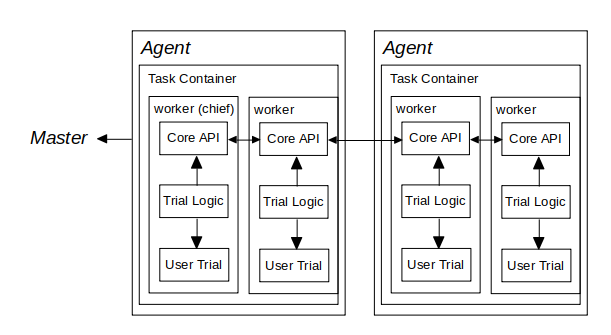
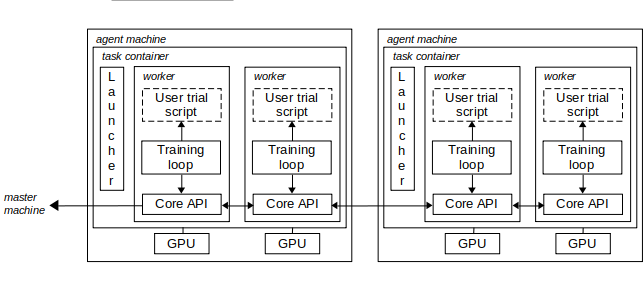
docs: update architecture doc with images

Changed region(s): [[0.0, 0.0619, 1.0, 0.9588], [0.1866, 0.0, 0.3421, 0.0309]]

diff --git a/docs/intro/architecture/overview.rst b/docs/intro/architecture/overview.rst
@@ -4,21 +4,17 @@
  System Architecture
 #####################
 
-The Determined architecture comprises a single *master* and one or more *agents*. A single machine can serve as both a master and an agent.
+**********
+Components
+**********
 
-A cluster is managed by a master node, which provisions and deprovisions agent nodes, depending on the current volume of experiments running on the cluster. When an experiment starts, the master creates agent instances and when the experiment completes, the master turns off the agents. The master also keeps all experiment metadata in a separate database, which can be queried by the user using the WebUI or CLI. All nodes in the cluster communicate internally within the cloud and you interact with the master using a port configured at installation. You do not need to interact with an agent, directly.
-
-The following figure depicts the key functional areas of the system architecture:
+The following figure depicts the main components of the system architecture:
 
 .. image:: /assets/images/arch00.png
 
-TBD: Talk about each of the boxes/connections.
+The Determined architecture comprises a single *master* and one or more *agents*. A single machine can serve as both a master and an agent.
 
-The following sections describe the master and agent components in more detail.
-
-*********
-Resources
-*********
+A cluster is managed by a master node, which provisions and deprovisions agent nodes, depending on the current volume of experiments running on the cluster. When an experiment starts, the master creates agent instances and when the experiment completes, the master turns off the agents. The master also keeps all experiment metadata in a separate database, which can be queried by the user using the WebUI or CLI. All nodes in the cluster communicate internally within the cloud and you interact with the master using a port configured at installation. You do not need to interact with an agent, directly.
 
 Master
 ======
@@ -36,7 +32,25 @@ The master is the central Determined system component with the following respons
 -  Hosts the WebUI for monitoring experiments.
 -  Serves the REST API.
 
-There is typically one agent per compute server. The agent manages a number of *slots*, which are computing devices, typically a GPUs or CPUs.
+Searcher
+^^^^^^^^
+
+TBD
+
+Metrics
+^^^^^^^^
+
+TBD
+
+Checkpoint
+^^^^^^^^^^
+
+TBD
+
+Scheduler
+^^^^^^^^^
+
+TBD
 
 Agent
 =====
@@ -48,9 +62,11 @@ An agent is managed by the master and has no state. Agents communicate only with
 -  Monitors containers and sends container information to the master.
 -  Reports *trial runner* states to the master. The *trial runner* runs a trial in a containerized environment. As such, the trial runner needs access to the training data.
 
+There is typically one agent per compute server. The agent manages a number of *slots*, which are computing devices, typically a GPUs or CPUs.
+
 The volume of active experiments dictates the number of agents.
 
-One agent can run on the master.
+One agent can run on the master machine.
 
 Database
 ========
@@ -103,11 +119,70 @@ Peripheral resources
    -  AWS Identity and Access Management (IAM)
    -  Security Groups
 
+************************
+Policies and Conventions
+************************
+
+TBD
+
+Configuration
+=============
+
+TBD
+
+Incrementalism
+==============
+
+Incremental features for incremental work.
+
+Experiment Variability
+======================
+
+Variabliity is around ML models, not in how to use Determined.
+
+Scheduling
+==========
+
+TBD
+
+Another One
+===========
+
+TBD
+
 *********************
-Master-Agent Workflow
+Workflows
 *********************
 
-The following operations represent a typical, high-level workflow:
+Training Implementation Workflow
+================================
+
+#. build data set
+#. in each example:
+#. build trial class
+#. build config file that tells Det how to run experiment
+
+   -  might change w/ different dataset
+
+#. How do you load your data  build_training_data_loader, build_validation_data_loader
+
+   -  how to pull the data into python
+
+#. How do you perform training  train_batch
+
+   objective: Find best set of parameters to get what you want. Do it repetitively to jiggle parameters
+
+   -  loss = how well we're doing
+   -  .backward & .step_optimizer = jiggling
+
+#. How do you perform validation  evaluate_batch
+
+   -  checks results against new data (cat image)
+
+#. a checkpointing step
+
+Master-Agent Workflow
+=====================
 
 #. Submit an experiment to the master.
 #. The master creates one or more agents, depending on experiment requirements, if the agent does not already exist.
@@ -116,34 +191,82 @@ The following operations represent a typical, high-level workflow:
 #. The master shuts down agents that are no longer needed.
 
 **************************************
-Distributed Training - Deployment View
-**************************************
-TBD
-
-**************************************
-Distributed Training - Logical View
-**************************************
-TBD
-
 Non-distributed Training
-========================
+**************************************
 
 TBD
 
 .. image:: /assets/images/arch01.png
 
-TBD: Talk about each of the boxes/connections.
+The Determined master launches one container, in which `entrypoint` script
+in the experiment configuration is called.
 
+The `entrypoint` script has complete freedom in how it defines and trains the
+model.  The Core API is available to integrate with the rest of the Determined
+platform by reporting metrics and checkpoints, checking for preemption signals,
+and participating in hyperparameter searches.
+
+**************************************
 Distributed Training
-=========================
+**************************************
 
 TBD
 
 .. image:: /assets/images/arch02.png
 
-TBD: Talk about each of the boxes/connections.
+The Determined master launches one container with multiple slots attached, or
+multiple containers, each with one or more slots.  The `entrypoint` script is
+called once in each container.
 
-***************************************
-Distributed Training - Development View
-***************************************
+It is highly recommended to separate training functionality into a launcher and
+a training script.  The launcher is responsible for launching multiple workers
+according to the distributed training configuration, with each running the
+training script.  The training script should execute the training with however
+many peer workers it has available.
+
+In fact, if both the launcher and the training script are able to deal with
+non-distributed training, where the launcher launches only one worker and the
+worker can operate without any peers, then switching between distributed
+training and non-distributed training only requires reconfiguring
+`slots_per_trial`.  This is the recommended strategy for using Determined, and
+it is how Trial-based training in Determined works.
+
+**************************************
+Trial-based Training and Core API
+**************************************
+
+TBD
+
+.. image:: /assets/images/arch03.png
+
+Trial-based training has been available since before the Core API was
+available, but can easily be thought of as a special case of Core API based
+training.
+
+With Trial-based training, you can specify just a Trial class as your
+`entrypoint` rather than an entire command.  Internally, Determined launches a
+Determined-provided *training script* that loads the *user trial* and starts a
+Determined-provided training loop (the *trial logic*).  The training loop uses
+the Core API to integrate with the rest of the Determined platform but those
+details are not exposed to the user trial.
+
+Technically non-distributed training also includes a launcher (not shown),
+which starts a single worker with the *training script*.  This is an example of
+the recommended strategy described in *Core API, distributed training case*.
+
+# Distributed-training (Trial-based Training):
+
+In Trial-based distributed training, Determined starts multiple workers with
+a Determined-provided *launcher*.  Each worker runs the same *trial logic* as
+before, only now training is coordinated across many workers.  The details of
+distributed training are hidden as much as possible from the *user trial*.
+
+****************
+Programming View
+****************
+
+TBD
+
+.. image:: /assets/images/arch04.png
+
 TBD
